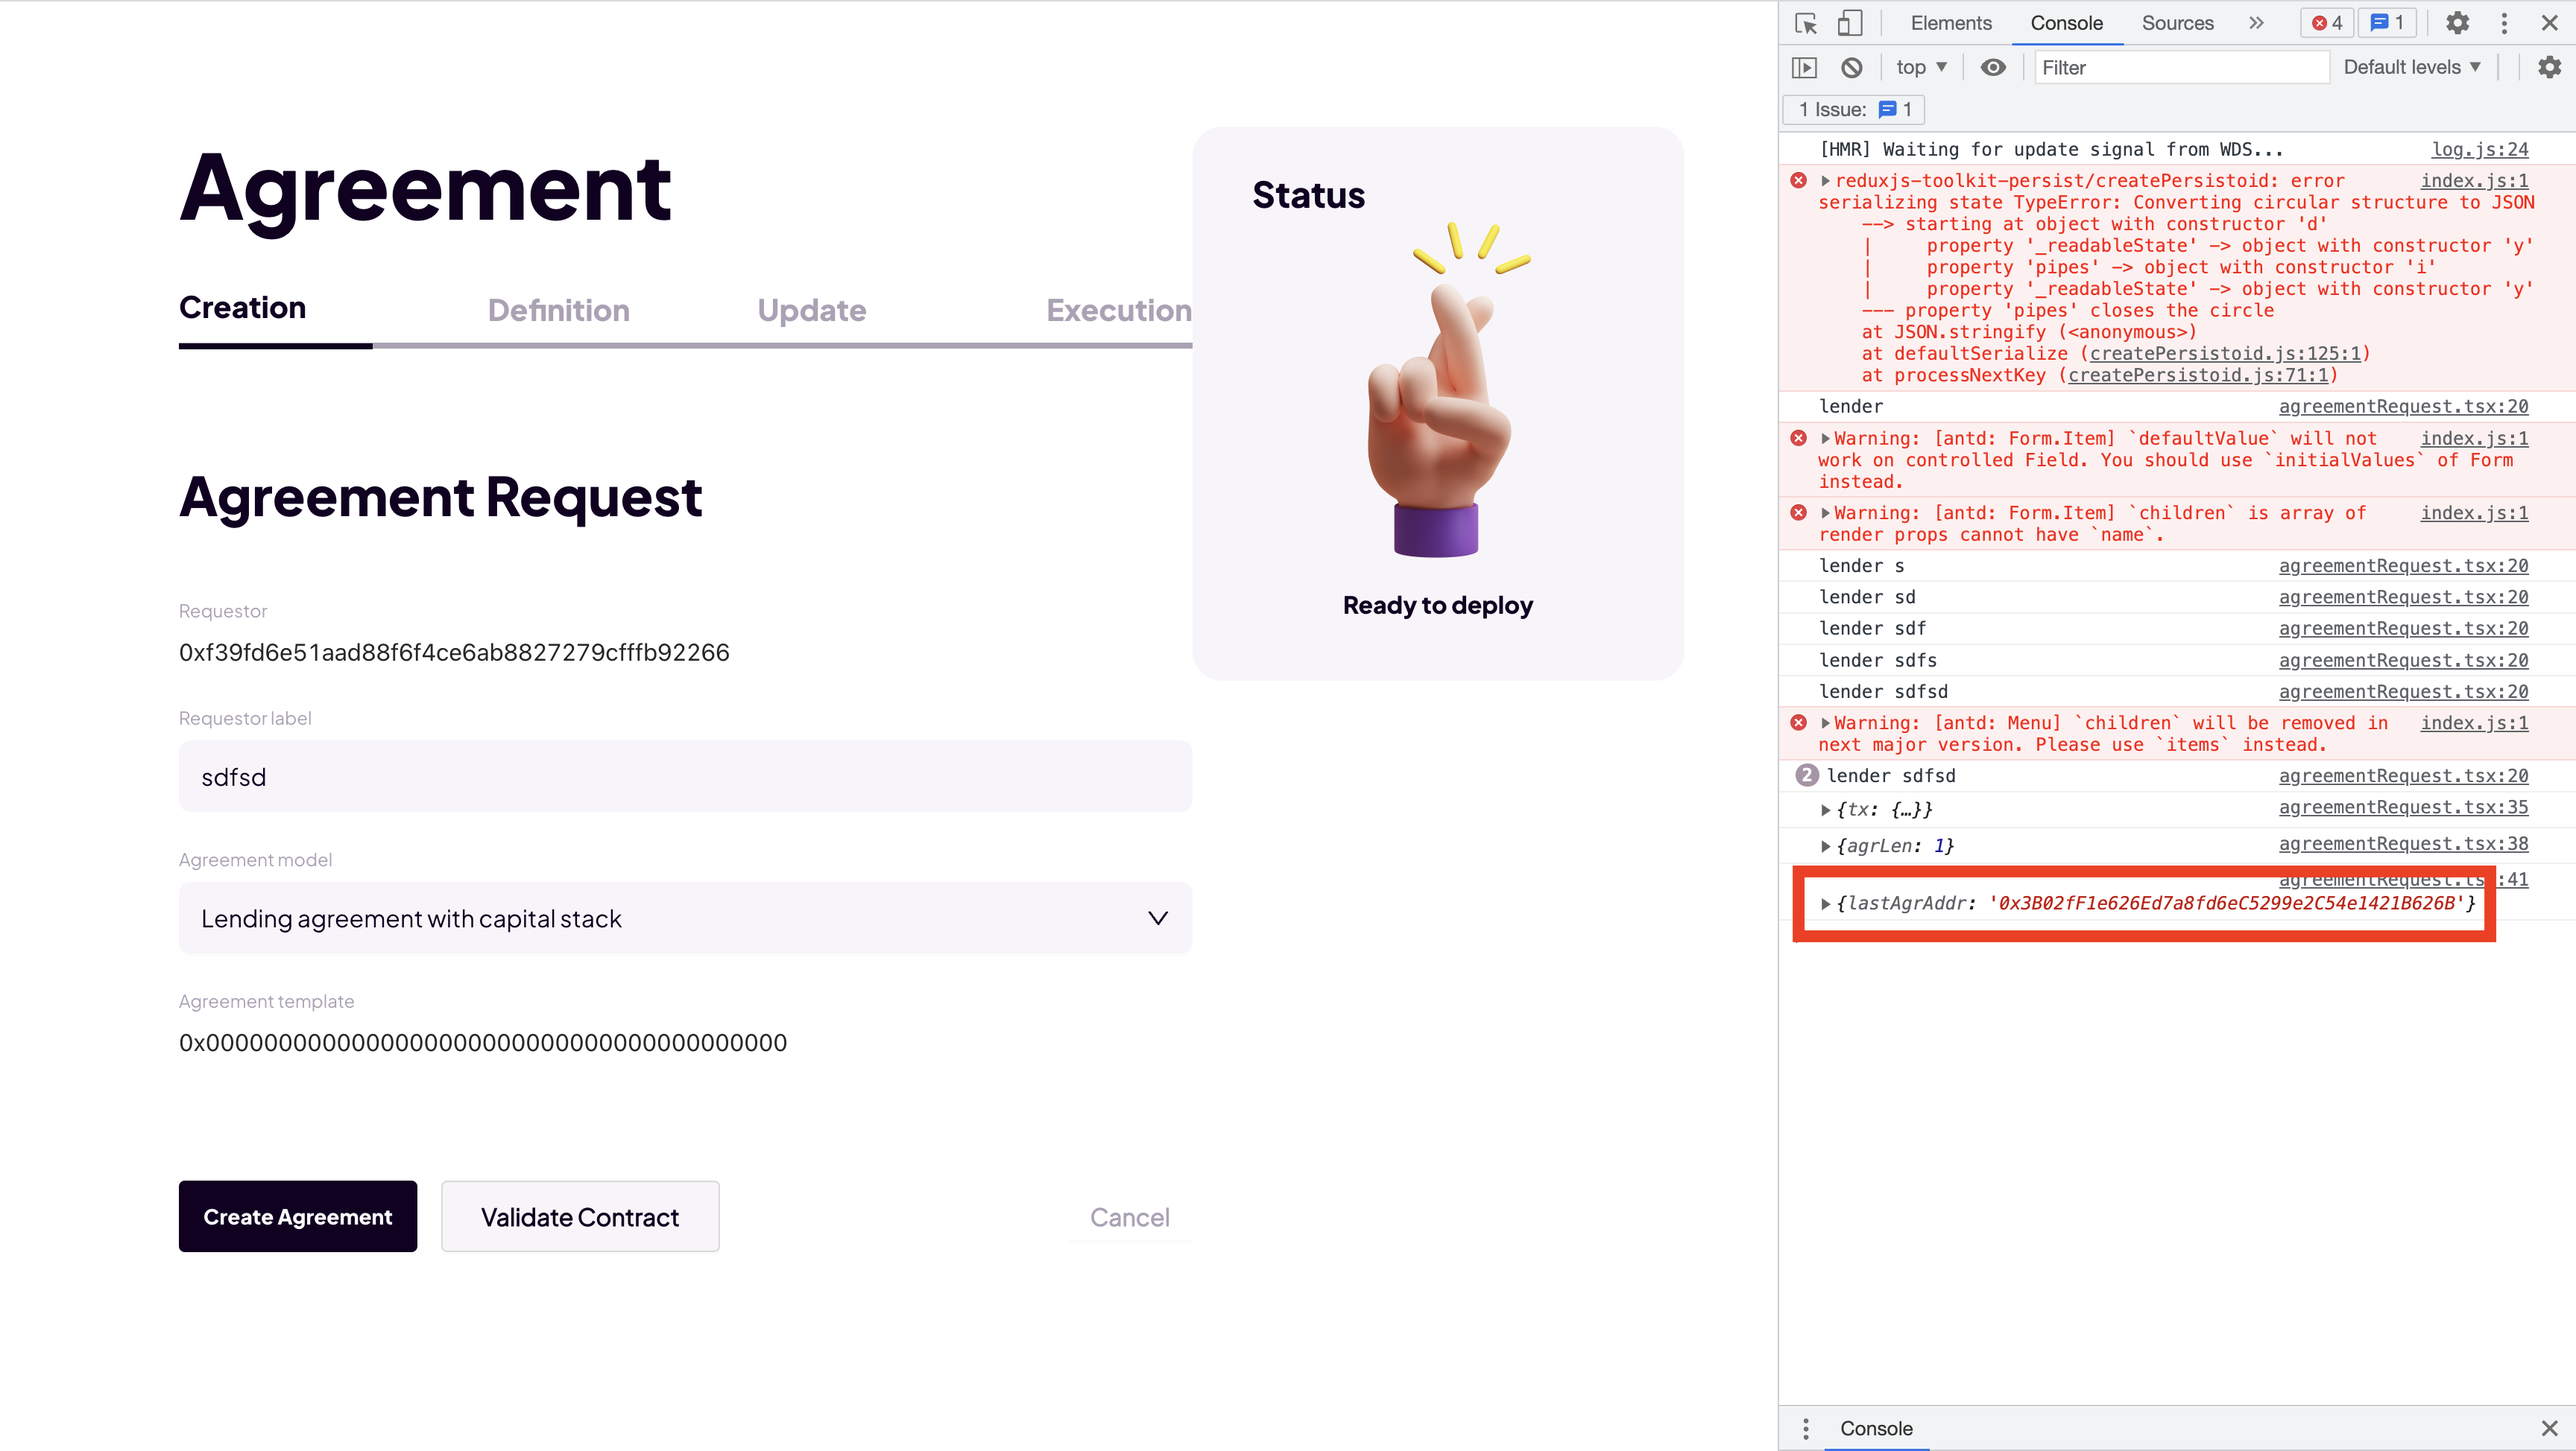
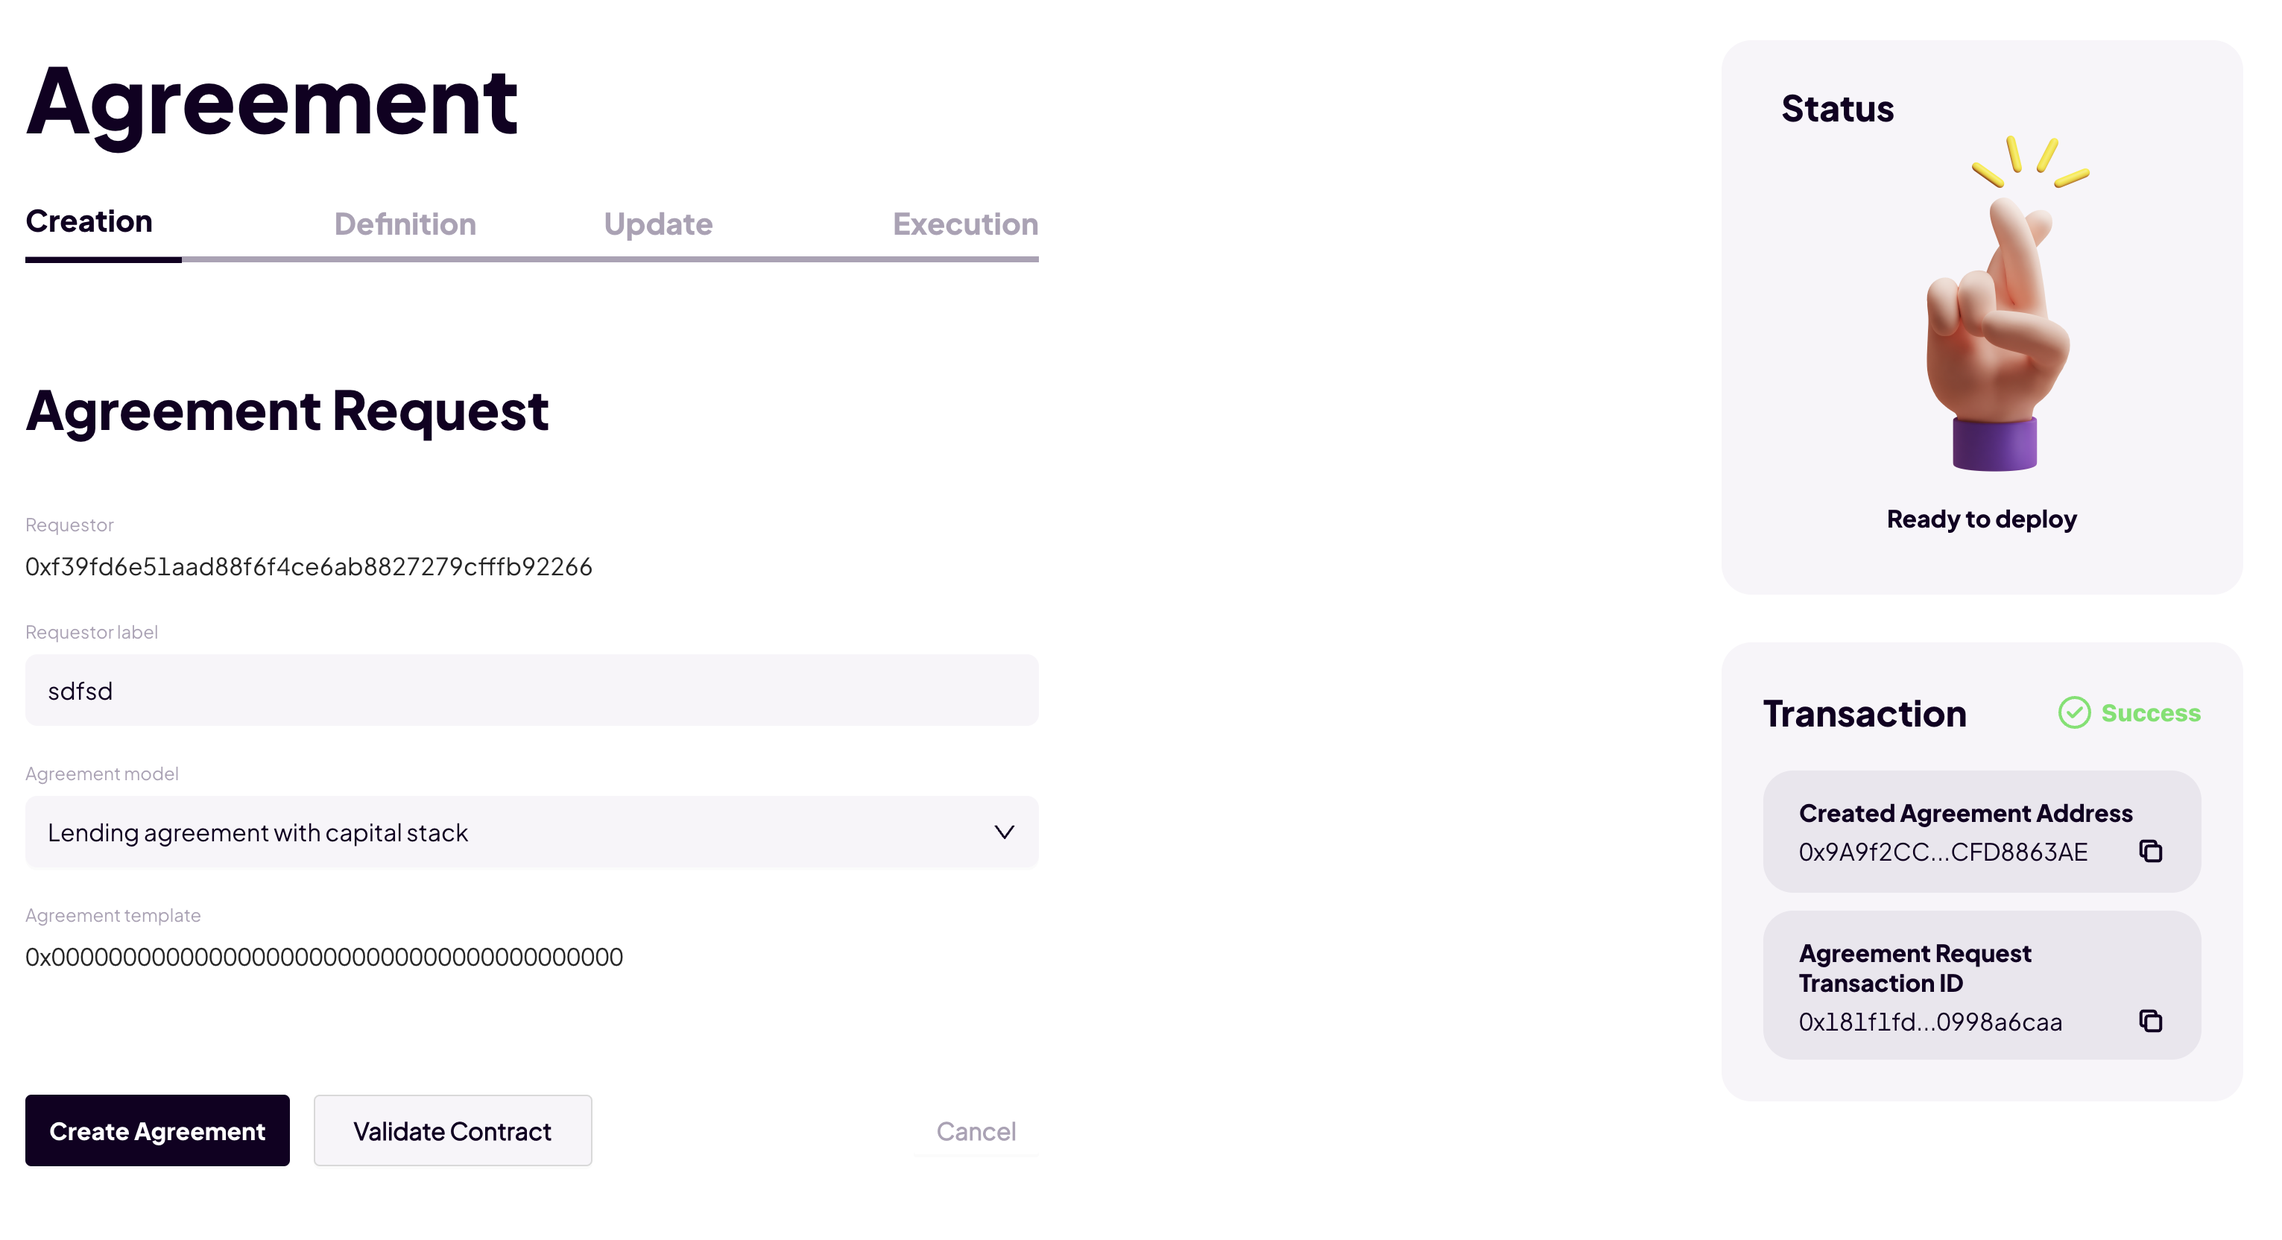
Update Demo V2 instuction

diff --git a/scripts/agreementBytecodeAndLibs.ts b/scripts/agreementBytecodeAndLibs.ts
@@ -1,8 +1,14 @@
 import { ethers } from 'hardhat';
 import fs from 'fs';
+import path from 'path';
 import { deployBase, deployOpcodeLibs } from './data/deploy.utils';
 
+/**
+ * Deploy libraries that are required by Agreement & generate Agreement bytecode with those
+ * libraries
+ */
 async function main() {
+  // Note: run this on the same node as Front End to actually deploy these libraries
   const [
     comparisonOpcodesLibAddr,
     branchingOpcodesLibAddr,
@@ -22,7 +28,7 @@ async function main() {
     },
   });
 
-  fs.writeFileSync('agreement.bytecode', AgreementContract.bytecode);
+  fs.writeFileSync(path.join(__dirname, 'agreement.bytecode'), AgreementContract.bytecode);
 }
 
 main();

diff --git a/scripts/data/deploy.utils.ts b/scripts/data/deploy.utils.ts
@@ -102,7 +102,5 @@ export const deployAgreement = async () => {
   const agreement = await AgreementContract.deploy(parserAddr);
   await agreement.deployed();
 
-  console.log(`\x1b[32m Agreement address \x1b[0m\x1b[32m ${agreement.address}\x1b[0m`);
-
   return agreement.address;
 };

diff --git a/scripts/deploy.demoV2.ts b/scripts/deploy.demoV2.ts
@@ -1,2 +1,4 @@
-import './deploy.parser';
 import './deploy.contextFactory';
+import './deploy.parser';
+import './deploy.preprocessor';
+import './agreementBytecodeAndLibs';

diff --git a/demo/v2/FE-demo-v2.md b/demo/v2/FE-demo-v2.md
@@ -18,23 +18,27 @@ Node
 1. Open a new terminal window.
 2. `git clone https://github.com/akiva-capital-holdings/solidity-dsl.git`
 3. `cd solidity-dsl`
-4. `git checkout f6ca4e7f580bc97bf07f6d3dbc9fd3c31f20de96`
+4. `git checkout 2f2d5b7020fa9179adcd960fe79f737e19ffc9ca`
 5. `yarn`
 6. In one terminal window: `npx hardhat node`
-7. In another terminal window: `npx hardhat run --network localhost scripts/deploy.parser.ts`. Remember Parser address
-8. In another terminal window: `npx hardhat run --network localhost scripts/deploy.contextFactory.ts`. Remember ContextFactory address
+7. In another terminal window: `npx hardhat run --network localhost scripts/deploy.demoV2.ts`. Remember the ContextFactory, Parser, and Preprocessor addresses that are displayed in the console. This script also have generated a new file: `scripts/agreement.bytecode`. The file contents Agreement bytecode; remember this bytecode.
 
 ### Setup FE
 
 1. Open a new terminal window.
 2. `git clone https://github.com/akiva-capital-holdings/dsl-fe.git`
 3. `cd dsl-fe`
-4. `git checkout f57151d8bd5476c75a0dc920f2edafedcada7073`
+4. `git checkout e1533d71a1422ea8b8fae5b5828a6e31d5fb3a3f`
 5. `yarn`
 6. Modify `.env.locale`:
+
    - Set `REACT_APP_PARSER` to Parser address that you've remembered
+   - Set `REACT_APP_PREPROCESSOR` to Preprocessor address that you've remembered
    - Set `REACT_APP_CONTEXT_FACTORY` to ContextFactory address that you've remembered
-7. `yarn start:locale`
+
+7. Copy a bytecode of Agreement that you've remembered and paste it in `src/data/agreement.json` file in the `bytecode` section.
+
+8. `yarn start:locale`
 
 ### Setup MetaMask
 
@@ -47,6 +51,11 @@ Node
[1 lines of base64/hex data omitted]
 
 ![MetaMask-Setup](img/MetaMask-setup.png)
+
+### Reset MetaMask nonce (needed for localhost)
+
+1. Go to Metamask -> Settings -> Advanced -> Click Reset Account -> Confirm the reset
+   ![MetaMask-Reset](img/MetaMask-reset.png)
 
 ### Interact with website
 
@@ -63,74 +72,76 @@ Node
    - Agreement model: choose the only option available `Lending agreement with capital stack`
 7. Hit `Create Agreement` button
 8. Confirm the transaction via MetaMask pop up
-9. Get a deployed Agreement address from the developers console. Remember this address
+9. If you get a transaction ID in a status block located on the right of the screen than the transaction was successful
 
 ![Agreement Creation](img/Agreement-creation.png)
 
-#### -> Agreement Update
-
-10. Go to `Update` tab
-11. Fill in the `Update` form:
-    - ID: `1`
-    - Agreement: the address of Agreement that you've deployed and remembered
-    - Signatories: copy & paste an `Alice (hardhat)` addess from MetaMask
-    - Conditions: `bool true`
-    - Transaction: `msgValue == 1000000000000000000`
-12. Hit `Request Approval` button
-13. Confirm all the transactions via MetaMask pop ups
-14. If you get `Agreement update transaction hash: ...` in the console than the Agreement update was successful
-
-![Agreement Update](img/Agreement-update.png)
-
-#### -> Agreement Execution
-
-15. Go to `Execution` tab
-16. Fill in the `Execution` form:
-    - ID: `1`
-    - Agreement: the address of Agreement that you've deployed and remembered
-    - Transaction Value (in Wei): `1000000000000000000`
-17. Hit `Execute` button
-18. Confirm the transaction via MetaMask pop up
-19. If you get `{ txHash: ... }` in the console than the Agreement execution was successful
-
-![Agreement Execution](img/Agreement-execution.png)
-
 #### -> Agreement Definition
 
-20. Go to `Definition` tab
-21. Fill in the `Definition` form:
-    - Agreement: the address of Agreement that you've deployed and remembered
+10. Go to `Definition` tab
+11. Fill in the `Definition` form:
+    - Agreement: should be pre-defined / do not modify
     - Definition: `BOB`
     - Specifications: the address of `Bob (hardhat)` from the MetaMask
-22. Hit `Request Approval` button
-23. Confirm the transaction via MetaMask pop up
-24. If you get `{ value: <<the address of 'Bob (hardhat)'>> }` then the Agreement definition was successful
+12. Hit `Request Approval` button
+13. Confirm the transaction via MetaMask pop up
+14. If you get a transaction ID in a status block located on the right of the screen than the transaction was successful
 
 ![Agreement Definition](img/Agreement-definition.png)
 
 #### -> Agreement Update
 
-25. Go to `Update` tab
-26. Fill in the `Update` form:
-    - ID: `2`
-    - Agreement: the address of Agreement that you've deployed and remembered
+15. Go to `Update` tab
+16. Fill in the `Update` form:
+    - ID: `1`
+    - Agreement: should be pre-defined / do not modify
+    - Required Transactions: leave this field empty
     - Signatories: copy & paste an `Alice (hardhat)` addess from MetaMask
     - Conditions: `bool true`
-    - Transaction: `sendEth BOB 1000000000000000000`
-27. Hit `Request Approval` button
-28. Confirm all the transactions via MetaMask pop ups
-29. If you get `Agreement update transaction hash: ...` in the console than the Agreement update was successful
+    - Transaction: `msgValue == 1e18`
+17. Hit `Request Approval` button
+18. Confirm all the transactions via MetaMask pop ups
+19. If you get a transaction ID in a status block located on the right of the screen than the transaction was successful
+
+![Agreement Update](img/Agreement-update.png)
+
+#### -> Agreement Update
+
+20. Go to `Update` tab
+21. Fill in the `Update` form:
+    - ID: `2`
+    - Agreement: should be pre-defined / do not modify
+    - Required Transactions: `1`
+    - Signatories: copy & paste an `Alice (hardhat)` addess from MetaMask
+    - Conditions: `bool true`
+    - Transaction: `sendEth BOB 1e18`
+22. Hit `Request Approval` button
+23. Confirm all the transactions via MetaMask pop ups
+24. If you get a transaction ID in a status block located on the right of the screen than the transaction was successful
+
+#### -> Agreement Execution
+
+25. Go to `Execution` tab
+26. Fill in the `Execution` form:
+    - ID: `1`
+    - Agreement: should be pre-defined / do not modify
+    - Transaction Value (in Wei): `1000000000000000000`
+27. Hit `Execute` button
+28. Confirm the transaction via MetaMask pop up
+29. If you get a transaction ID in a status block located on the right of the screen than the transaction was successful
+
+![Agreement Execution](img/Agreement-execution.png)
 
 #### -> Agreement Execution
 
 30. Go to `Execution` tab
 31. Fill in the `Execution` form:
     - ID: `2`
-    - Agreement: the address of Agreement that you've deployed and remembered
+    - Agreement: should be pre-defined / do not modify
     - Transaction Value (in Wei): leave this field empty
 32. Hit `Execute` button
 33. Confirm the transaction via MetaMask pop up
-34. If you get `{ txHash: ... }` in the console than the Agreement execution was successful
+34. If you get a transaction ID in a status block located on the right of the screen than the transaction was successful
 
 Now `Bob (hardhat)` balance should be increased by 1 ETH
 
